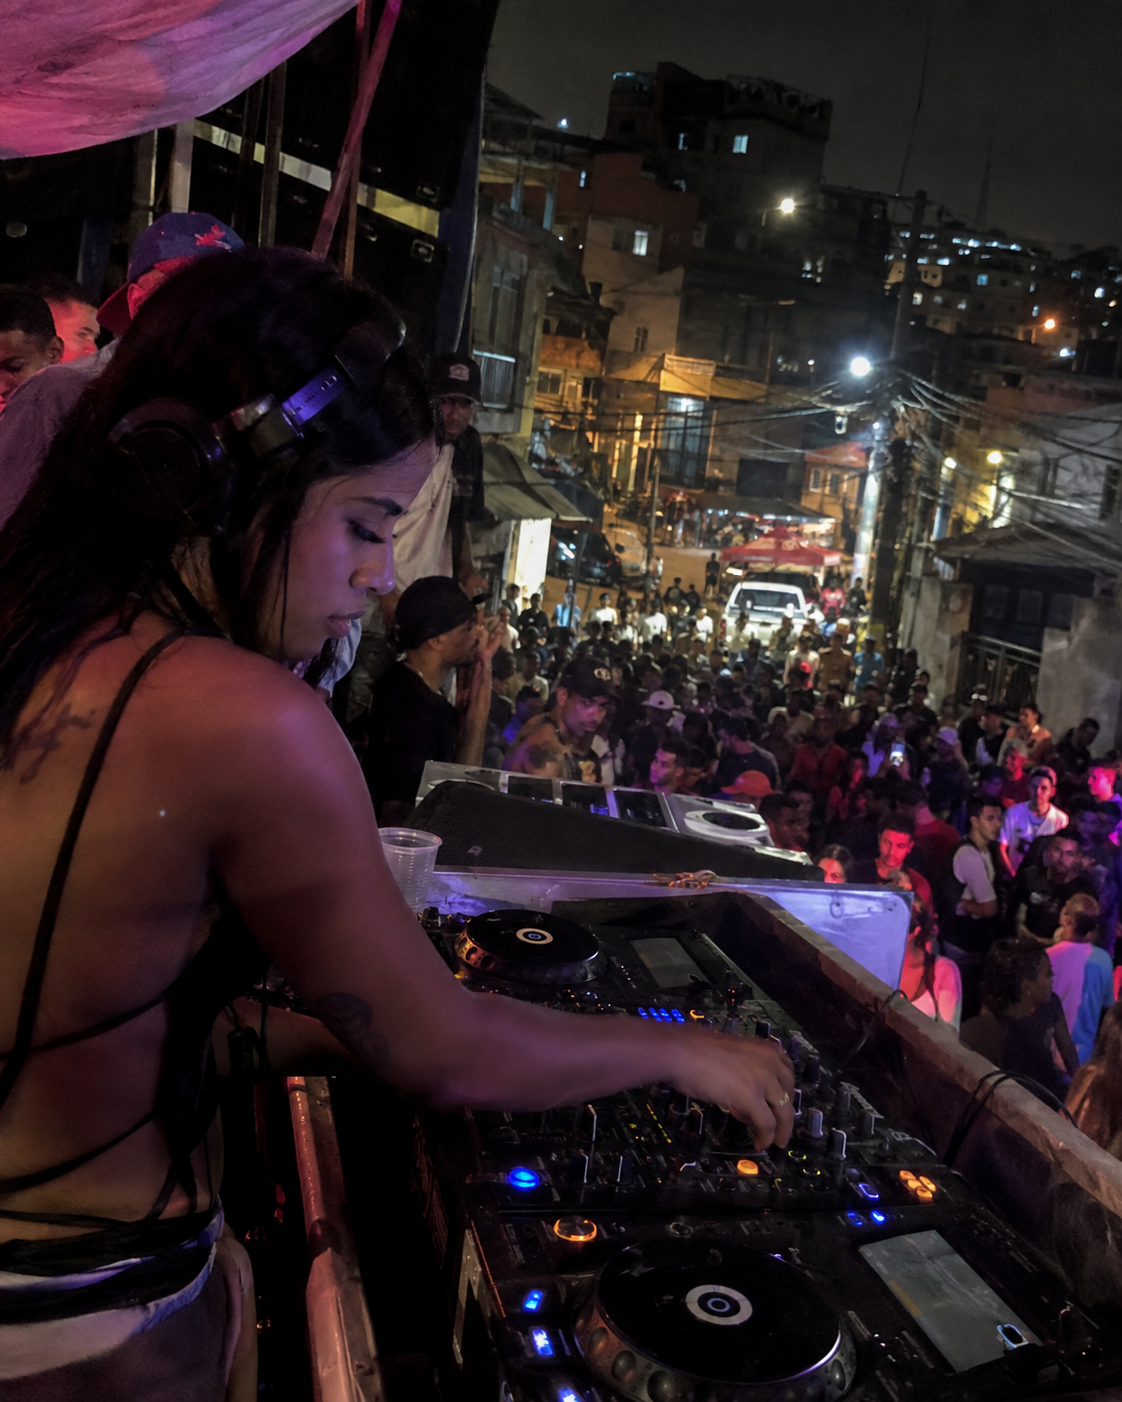
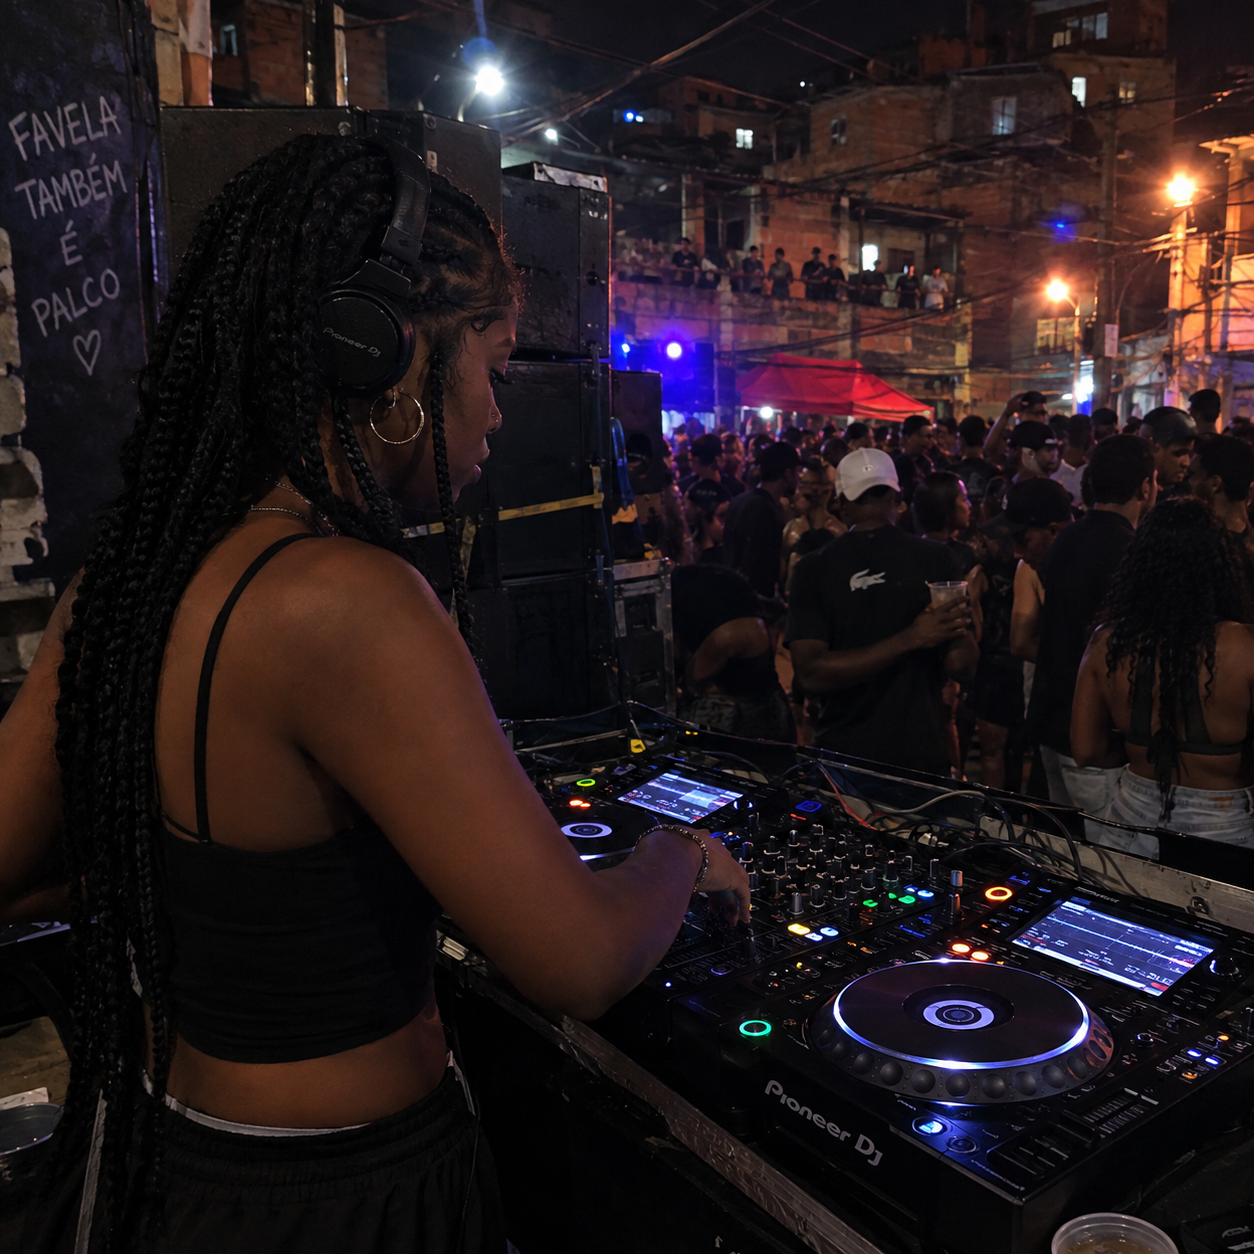
feat: adiciona estrutura html completa

diff --git a/index.html b/index.html
@@ -1,0 +1,138 @@
+<!DOCTYPE html>
+<html lang="pt-br">
+ 
+<head>
+    <meta charset="UTF-8">
+    <meta name="viewport" content="width=device-width, initial-scale=1.0">
+    <meta name="description" content="Conheça o portfólio de Isabela Santos, produtora musical.">
+    <title>Isabela Nascimento | Portfólio</title>
+ 
+    <link rel="preconnect" href="https://fonts.googleapis.com">
+    <link rel="preconnect" href="https://fonts.gstatic.com" crossorigin>
+    <link
+        href="https://fonts.googleapis.com/css2?family=Inter:ital,opsz,wght@0,14..32,100..900;1,14..32,100..900&display=swap"
+        rel="stylesheet">
+ 
+    <link rel="stylesheet" href="style.css">
+</head>
+ 
+<body>
+    <header>
+        <h1><a href="/">IB</a></h1>
+ 
+        <nav aria-label="Navegação Principal">
+            <ul>
+                <li><a href="#sobre">Sobre</a></li>
+                <li><a href="#projetos">Na cena</a></li>
+                <li><a href="#contato">Contato</a></li>
+            </ul>
+        </nav>
+    </header>
+ 
+    <main>
+        <section class="hero-section" aria-labelledby="hero-title">
+            <h2 id="hero-title">Produção <span>musical</span> profissional</h2>
+            <p>Produtora / DJ</p>
+            <p>Transformando ideias em sons que têm identidade, atitude e deixam sua marca.</p>
+ 
+            <ul>
+                <li><a href="#projetos">Ver meu trabalho</a></li>
+                <li><a href="#contato">Entrar em contato</a></li>
+            </ul>
+        </section>
+ 
+        <section class="sobre-section" id="sobre" aria-labelledby="sobre-title">
+            <div class="about-text">
+                <h2 id="sobre-title">Sou a <span>DJ Isabela</span>, tenho 20 anos e sou apaixonada por música.</h2>
+                <p>Comecei a produzir cedo, mexendo com sons e beats por curiosidade mesmo. Com o tempo, isso virou uma das coisas que mais gosto de fazer. Hoje busco colocar minha personalidade em cada produção.</p>
+            </div>
+            <div class="foto-perfil">
+                <img src="img/isabela.png" alt="Retrato da DJ Isabela">
+            </div>
+        </section>
+ 
+        <section class="projetos-section" id="projetos" aria-labelledby="projetos-title">
+            <div class="projetos-text">
+                <h2 id="projetos-title">Um pouco da minha caminhada</h2>
+                <p>Já tive a oportunidade de tocar em Heliópolis. Foi uma experiência muito boa e importante pra minha carreira como DJ.</p>
+                <ul>
+                    <li>
+                        <article>
+                            <a href="#">Heliópolis<br>Baile de Rua</a>
+                        </article>
+                    </li>
+                </ul>
+            </div>
+            <img src="img/tocando.png" alt="DJ Isabela tocando em um baile de rua em Heliópolis">
+        </section>
+ 
+        <section class="especializacoes-section" aria-labelledby="especializacoes-title">
+            <h2 id="especializacoes-title">Minhas especializações</h2>
+ 
+            <h3>O que eu mais gosto<br>de fazer na música</h3>
+ 
+            <ul>
+                <li>
+                    <article>
+                        <h3>Beatmaking</h3>
+                        <p>Criação de beats, bases e ideias com personalidade e ritmo.</p>
+                    </article>
+                </li>
+                <li>
+                    <article>
+                        <h3>Mixagem</h3>
+                        <p>Organização dos sons para deixar a música mais limpa e equilibrada.</p>
+                    </article>
+                </li>
+                <li>
+                    <article>
+                        <h3>Masterização</h3>
+                        <p>Ajustes finais para dar mais força e finalizar a música com cuidado.</p>
+                    </article>
+                </li>
+            </ul>
+        </section>
+ 
+        <section class="contato-section" id="contato" aria-labelledby="contato-title">
+            <div>
+                <h2 id="contato-title">Bora fazer esse <span>som acontecer?</span></h2>
+                <p>Tem um evento, festa ou projeto em mente? Me chama e vamos conversar.</p>
+            </div>
+ 
+            <form>
+                <label for="nome">Nome</label>
+                <input type="text" id="nome" name="nome" required placeholder="Ex: Maria Silva" autocomplete="name">
+ 
+                <label for="email">E-mail</label>
+                <input type="email" id="email" name="email" required placeholder="Ex: seuemail@gmail.com" autocomplete="email">
+ 
+                <label for="telefone">Telefone</label>
+                <input type="tel" id="telefone" name="telefone" required placeholder="Ex: (99) 99999-9999" autocomplete="tel">
+ 
+                <label for="mensagem">Mensagem</label>
+                <textarea id="mensagem" name="mensagem" required placeholder="Oi, tudo bem? Vi seu trabalho e queria saber mais sobre você tocar no meu evento."></textarea>
+ 
+                <button type="submit">Enviar mensagem</button>
+            </form>
+        </section>
+    </main>
+ 
+    <footer>
+        <a href="/" class="footer-logo">IB</a>
+        <p class="footer-text">Obrigada por chegar até aqui..<br>Nos vemos na próxima faixa?</p>
+ 
+        <nav aria-label="Redes sociais">
+            <ul>
+                <li><a href="https://open.spotify.com/" target="_blank" rel="noopener">Spotify</a></li>
+                <li><a href="https://soundcloud.com/" target="_blank" rel="noopener">SoundCloud</a></li>
+                <li><a href="https://www.instagram.com/" target="_blank" rel="noopener">Instagram</a></li>
+                <li><a href="https://www.linkedin.com/" target="_blank" rel="noopener">LinkedIn</a></li>
+            </ul>
+        </nav>
+ 
+        <p class="footer-copyright">© 2026 DJ Isabela. Todos os direitos reservados.</p>
+    </footer>
+</body>
+ 
+</html>
+ 
